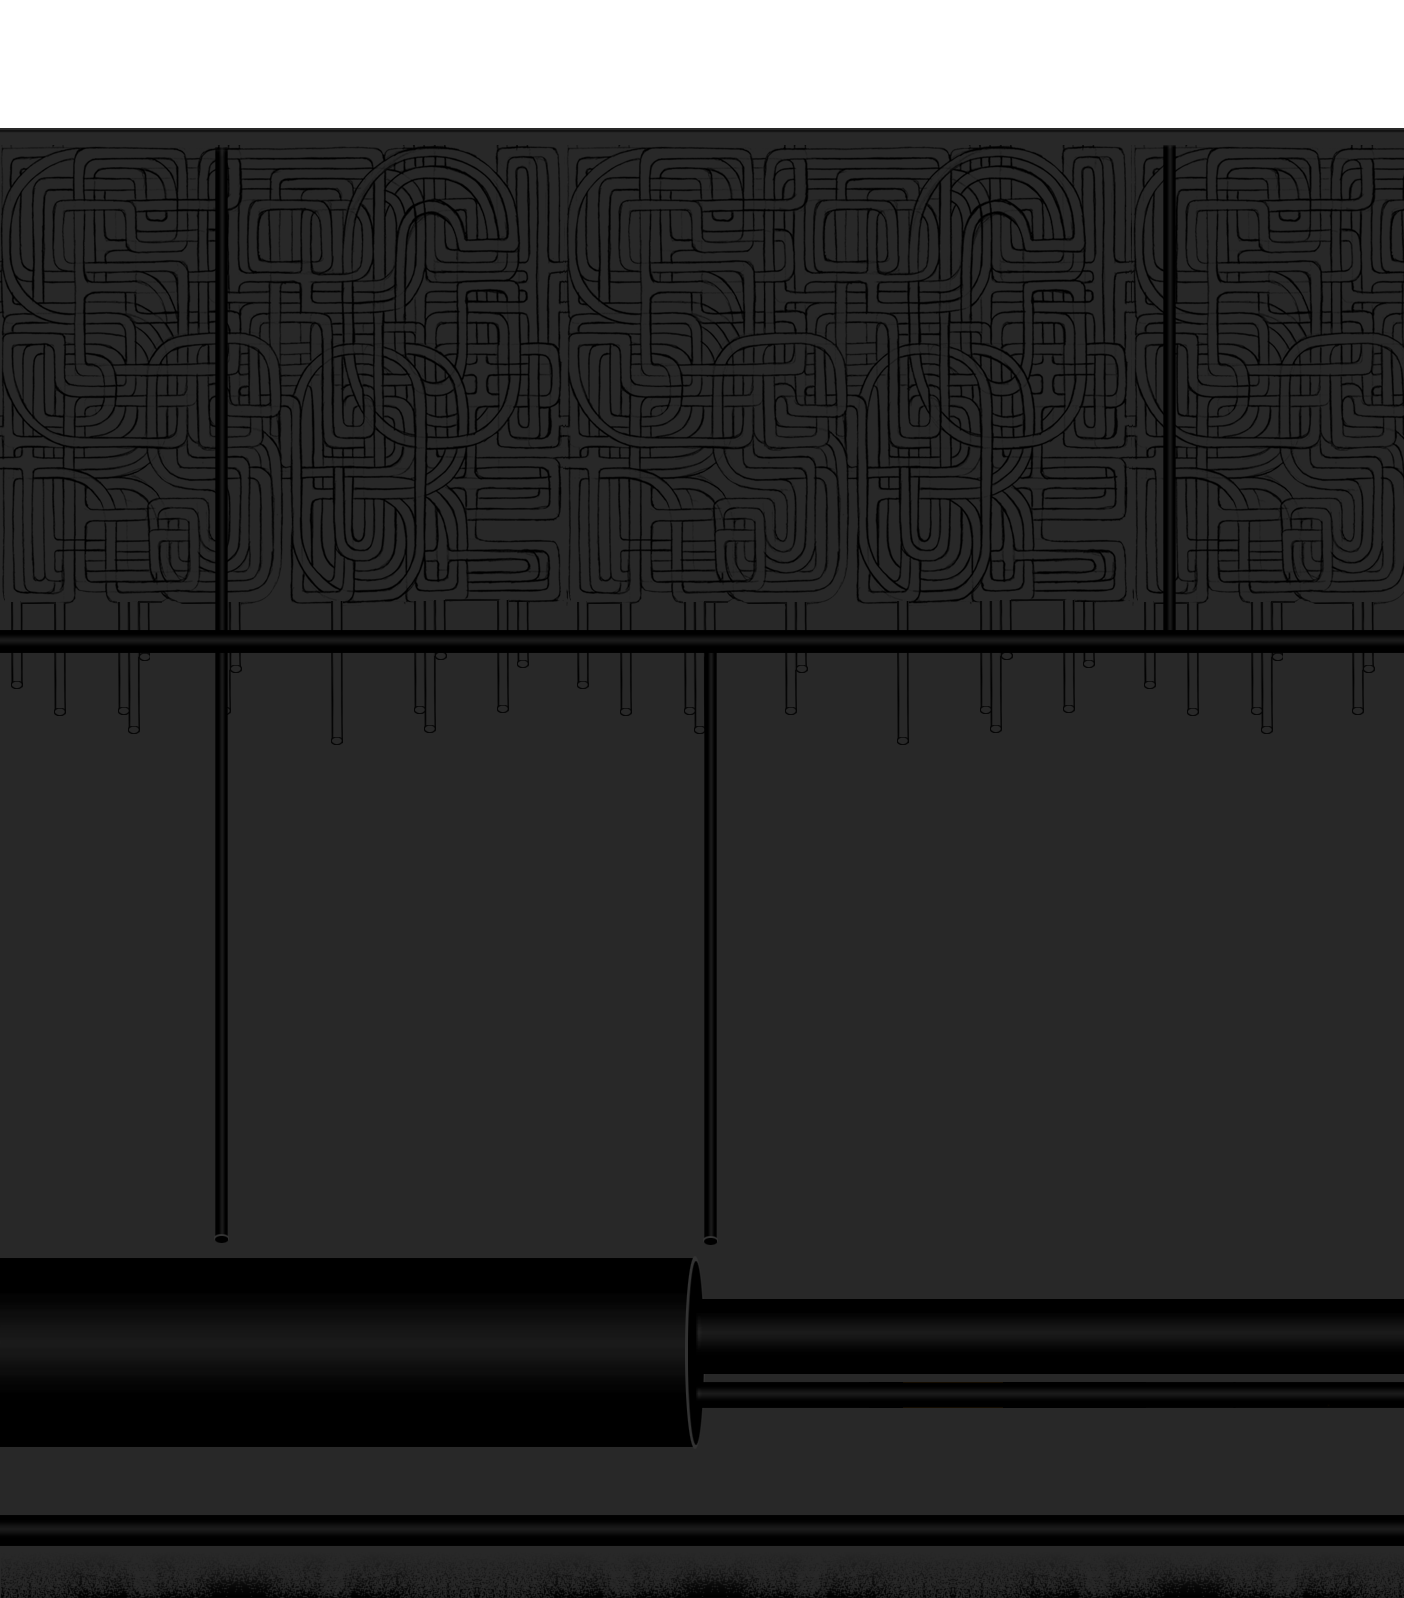
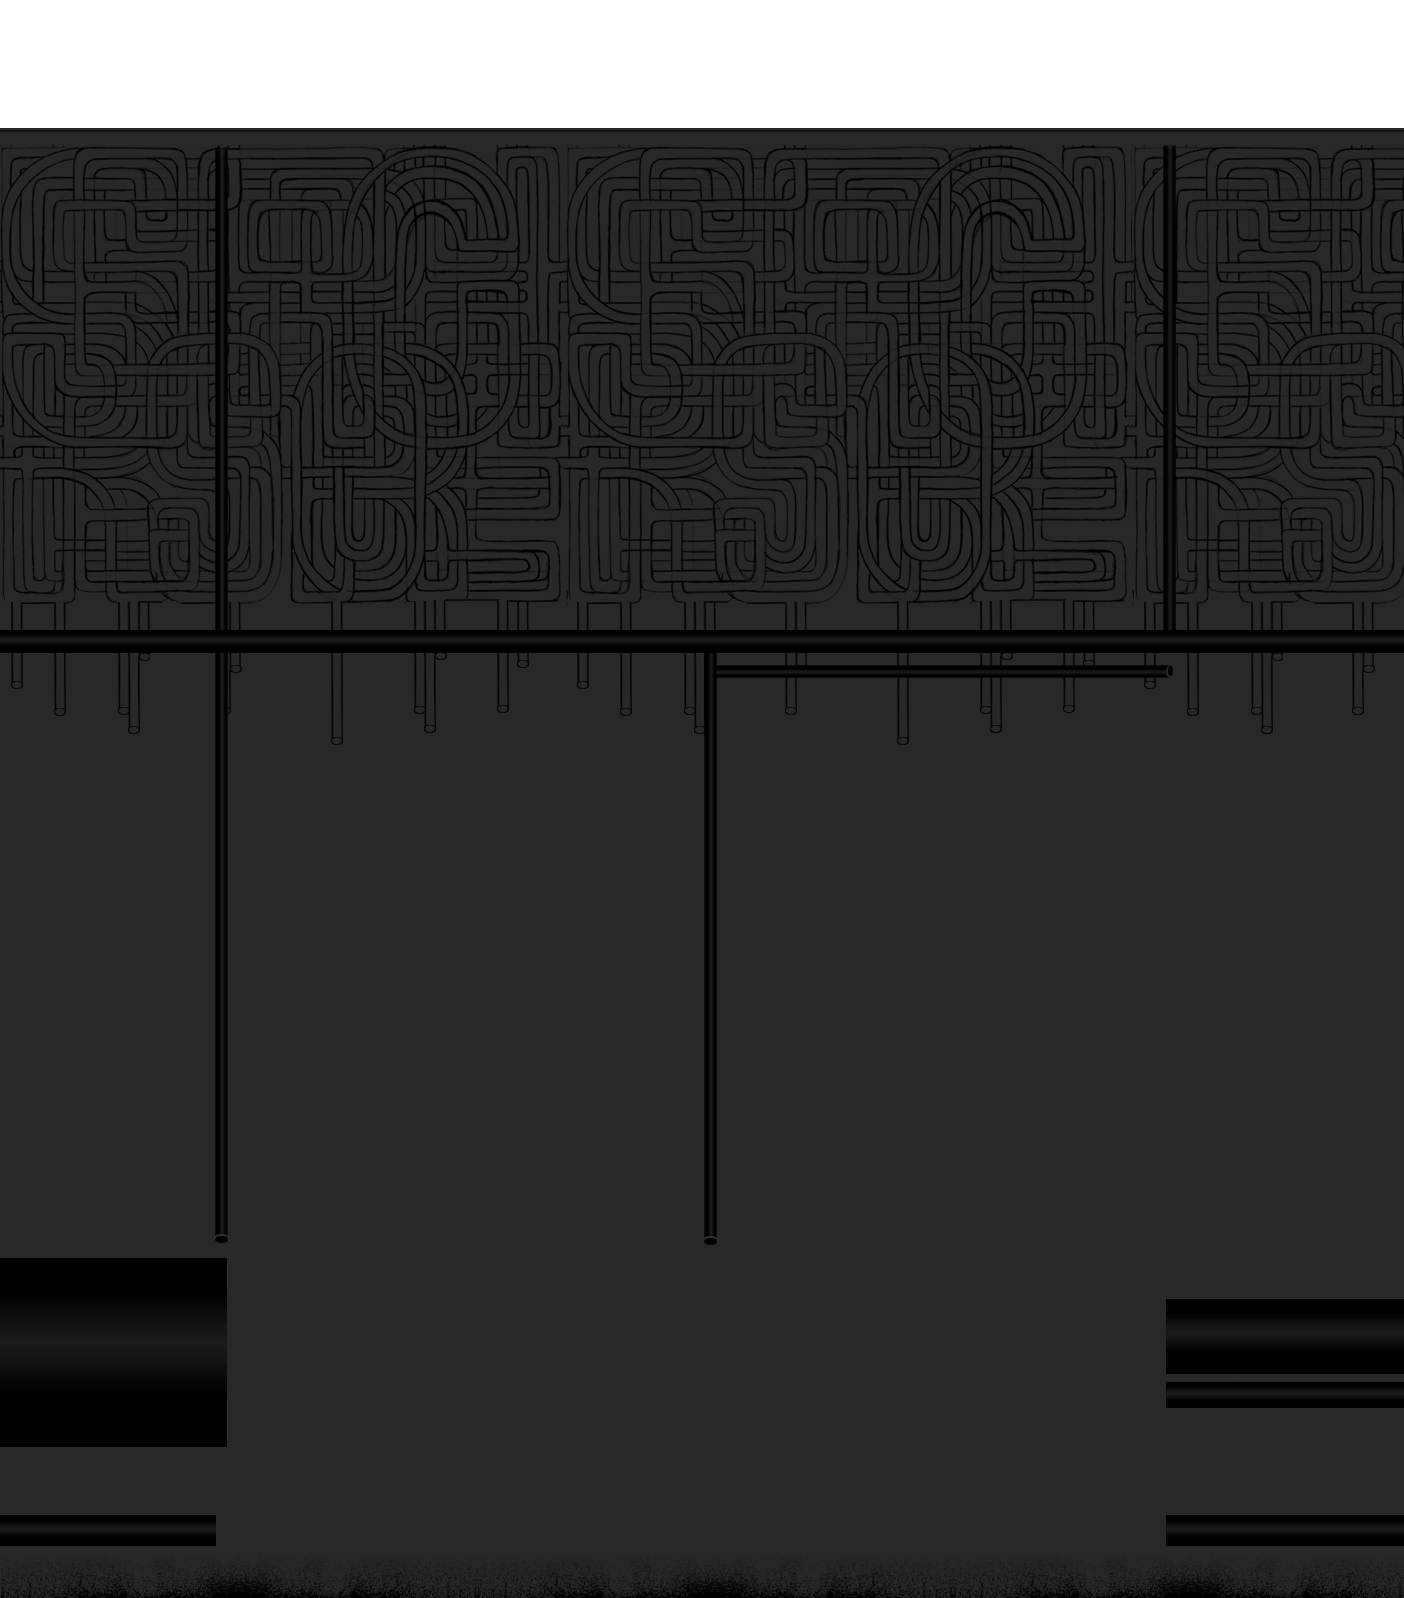
styles

Changed region(s): [[0.1531, 0.7666, 0.8269, 0.9199], [0.1531, 0.9506, 0.8269, 0.9812], [0.5207, 0.3986, 0.8269, 0.4293]]

diff --git a/public/stylesheets/base.css b/public/stylesheets/base.css
@@ -362,8 +362,11 @@
 .jazz.page-home #intro a.box {
   width: 210px; }
 .jazz.page-home #mailing-list .body-home {
-  margin-top: 35px;
-  margin-bottom: 13px; }
+  background: url(/images/pipes/ml-bg.png) no-repeat;
+  height: 189px;
+  width: 490px;
+  margin-top: 26px;
+  position: relative; }
 .jazz.page-home #mailing-list .body {
   padding-top: 5px; }
 .jazz.page-home #mailing-list .actions {
@@ -379,19 +382,29 @@
 .jazz.page-home #tonights_shows h1 {
   color: white; }
 .jazz.page-home #support {
-  margin-top: 70px;
   text-align: center; }
   .jazz.page-home #support h1, .jazz.page-home #support h2, .jazz.page-home #support h3 {
     color: white; }
+  .jazz.page-home #support .support-us {
+    margin-top: 67px;
+    background: url(/images/pipes/support.png) no-repeat;
+    height: 75px; }
   .jazz.page-home #support .social-media {
-    margin-top: 25px; }
+    margin-top: 8px;
+    padding-top: 4px;
+    height: 26px;
+    background: url(/images/pipes/socialmedia.png) no-repeat; }
 .jazz.page-home #footer {
   text-align: center;
-  margin-top: 20px;
   color: white; }
   .jazz.page-home #footer .site-tagline {
+    background: url(/images/pipes/tagline.png) no-repeat;
+    height: 31px;
     color: gray;
-    margin-top: 40px; }
+    margin-top: 30px;
+    padding-top: 5px;
+    position: relative;
+    left: -7px; }
     .jazz.page-home #footer .site-tagline .site-name {
       color: white;
       font-weight: bold;

diff --git a/public/stylesheets/pages/home.css b/public/stylesheets/pages/home.css
@@ -65,8 +65,11 @@
 .jazz.page-home #intro a.box {
   width: 210px; }
 .jazz.page-home #mailing-list .body-home {
-  margin-top: 35px;
-  margin-bottom: 13px; }
+  background: url(/images/pipes/ml-bg.png) no-repeat;
+  height: 189px;
+  width: 490px;
+  margin-top: 26px;
+  position: relative; }
 .jazz.page-home #mailing-list .body {
   padding-top: 5px; }
 .jazz.page-home #mailing-list .actions {
@@ -82,19 +85,29 @@
 .jazz.page-home #tonights_shows h1 {
   color: white; }
 .jazz.page-home #support {
-  margin-top: 70px;
   text-align: center; }
   .jazz.page-home #support h1, .jazz.page-home #support h2, .jazz.page-home #support h3 {
     color: white; }
+  .jazz.page-home #support .support-us {
+    margin-top: 67px;
+    background: url(/images/pipes/support.png) no-repeat;
+    height: 75px; }
   .jazz.page-home #support .social-media {
-    margin-top: 25px; }
+    margin-top: 8px;
+    padding-top: 4px;
+    height: 26px;
+    background: url(/images/pipes/socialmedia.png) no-repeat; }
 .jazz.page-home #footer {
   text-align: center;
-  margin-top: 20px;
   color: white; }
   .jazz.page-home #footer .site-tagline {
+    background: url(/images/pipes/tagline.png) no-repeat;
+    height: 31px;
     color: gray;
-    margin-top: 40px; }
+    margin-top: 30px;
+    padding-top: 5px;
+    position: relative;
+    left: -7px; }
     .jazz.page-home #footer .site-tagline .site-name {
       color: white;
       font-weight: bold;

diff --git a/public/stylesheets/sass/pages/home.scss b/public/stylesheets/sass/pages/home.scss
@@ -107,8 +107,11 @@
     }
     #mailing-list {
       .body-home {
-        margin-top: 35px;
-        margin-bottom: 13px;
+        background: url(/images/pipes/ml-bg.png) no-repeat;
+        height: 189px;
+        width: 490px;
+        margin-top: 26px;
+        position: relative;
       }
       .body {
         padding-top:5px;
@@ -139,24 +142,33 @@
       }
     }
     #support {
-      margin-top: 70px;
       text-align: center;
       h1, h2, h3 {
         color: white;
       }
       .support-us {
+        margin-top: 67px;
+        background: url(/images/pipes/support.png) no-repeat;
+        height: 75px;
       }
       .social-media {
-        margin-top: 25px;
+        margin-top: 8px;
+        padding-top: 4px;
+        height: 26px;
+        background: url(/images/pipes/socialmedia.png) no-repeat;
       }
     }
     #footer {
       text-align: center;
-      margin-top: 20px;
       color: white;
       .site-tagline {
+        background: url(/images/pipes/tagline.png) no-repeat;
+        height: 31px;
         color: gray;
-        margin-top: 40px;
+        margin-top: 30px;
+        padding-top: 5px;
+        position: relative;
+        left: -7px;
         .site-name {
           color: white;
           font-weight: bold;
